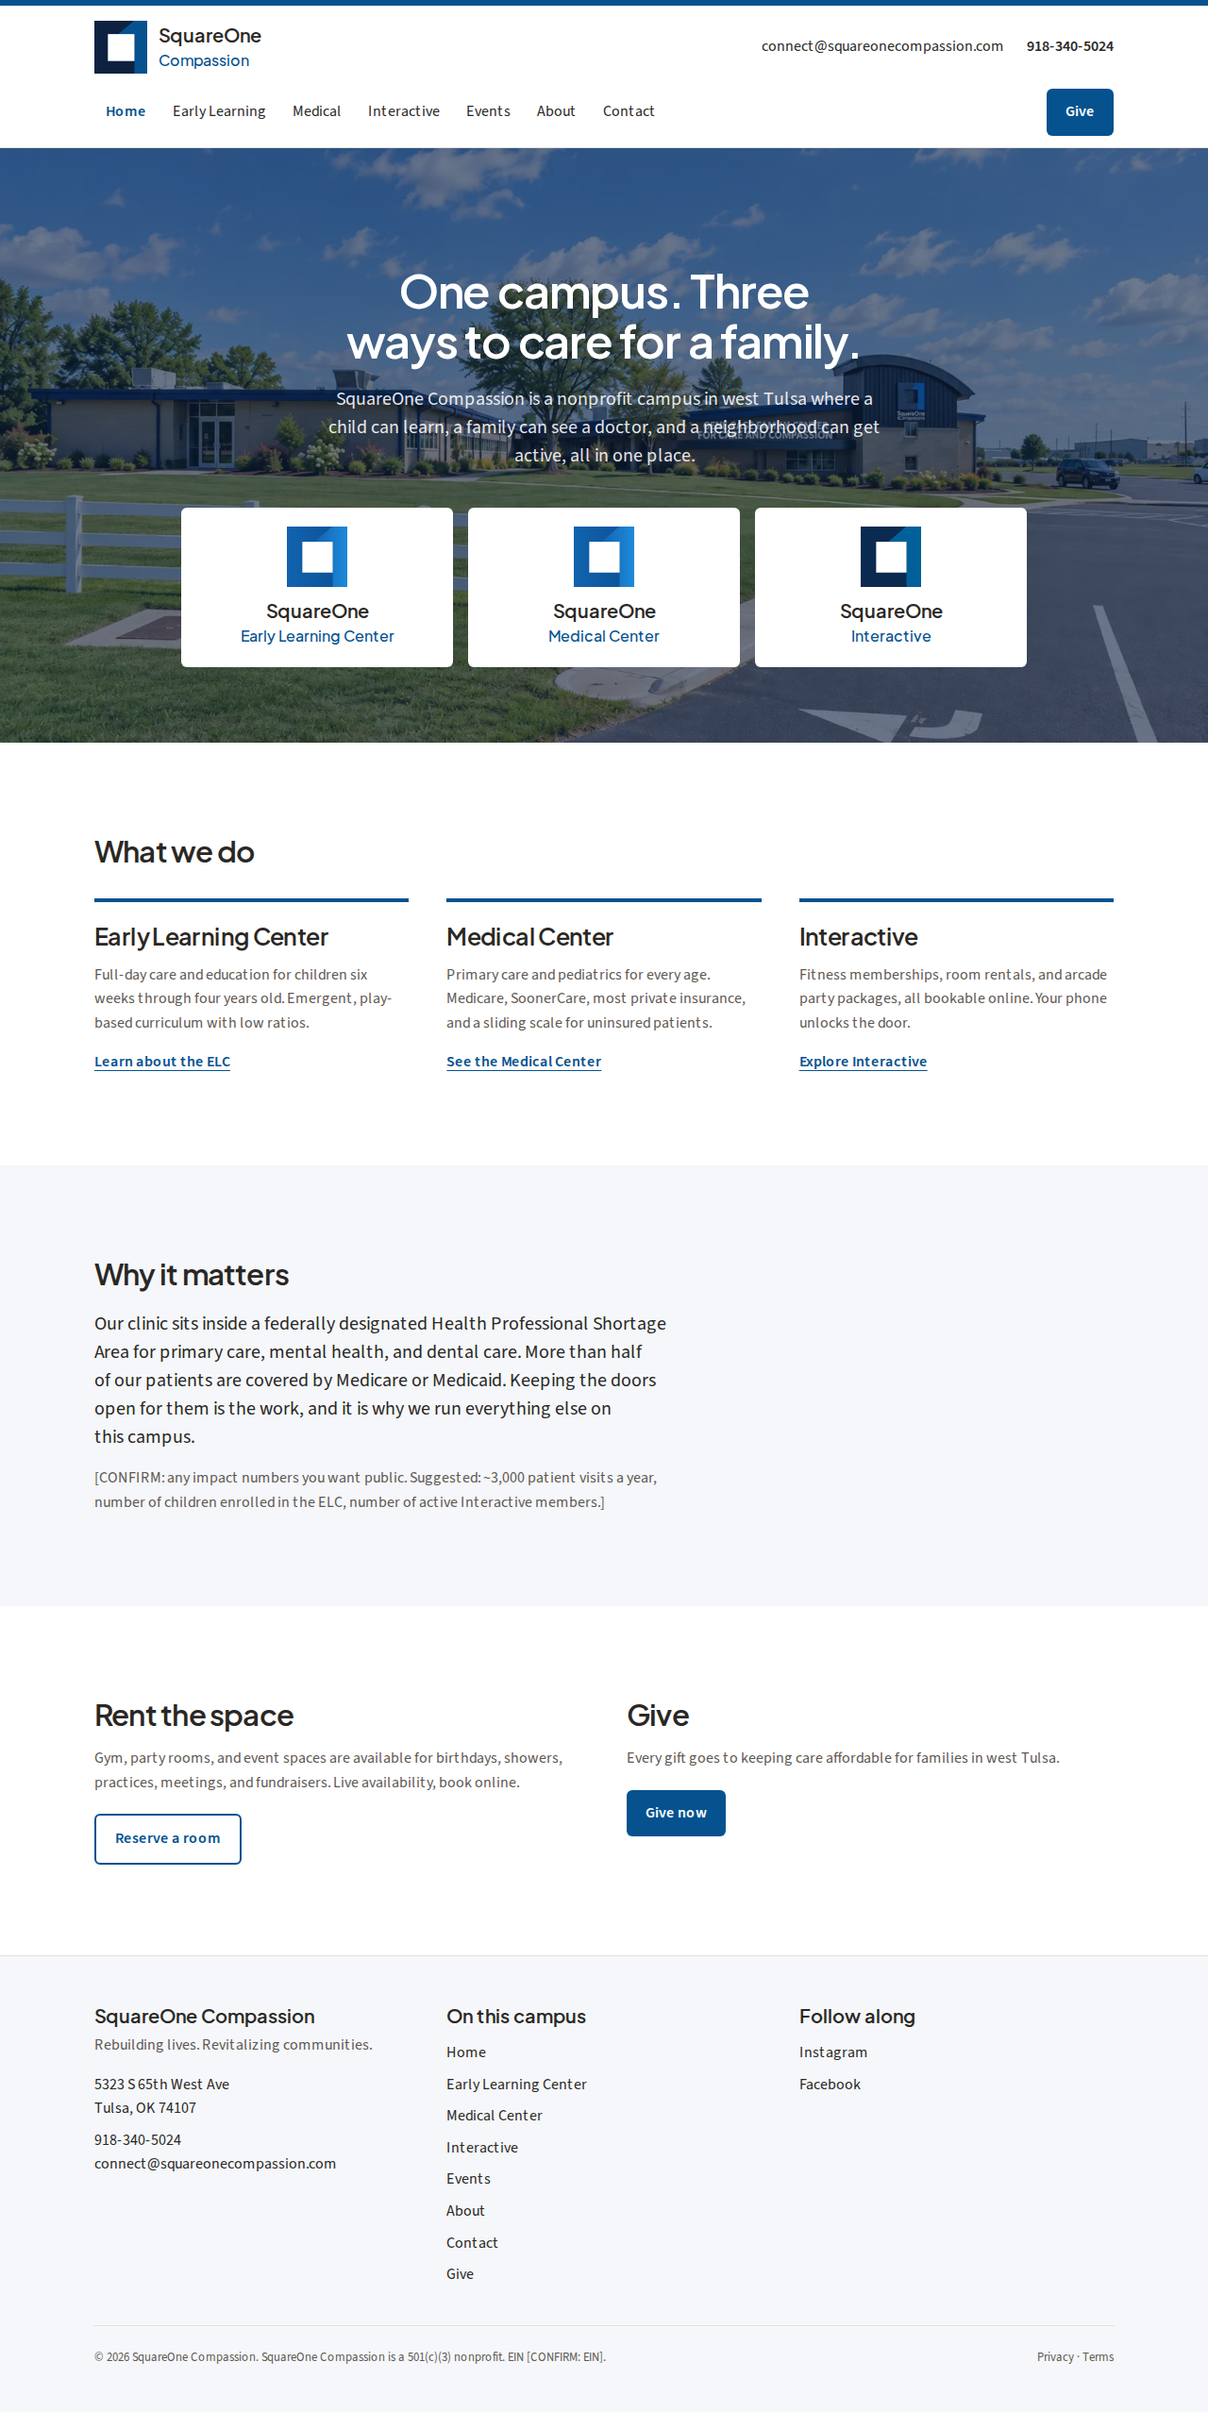
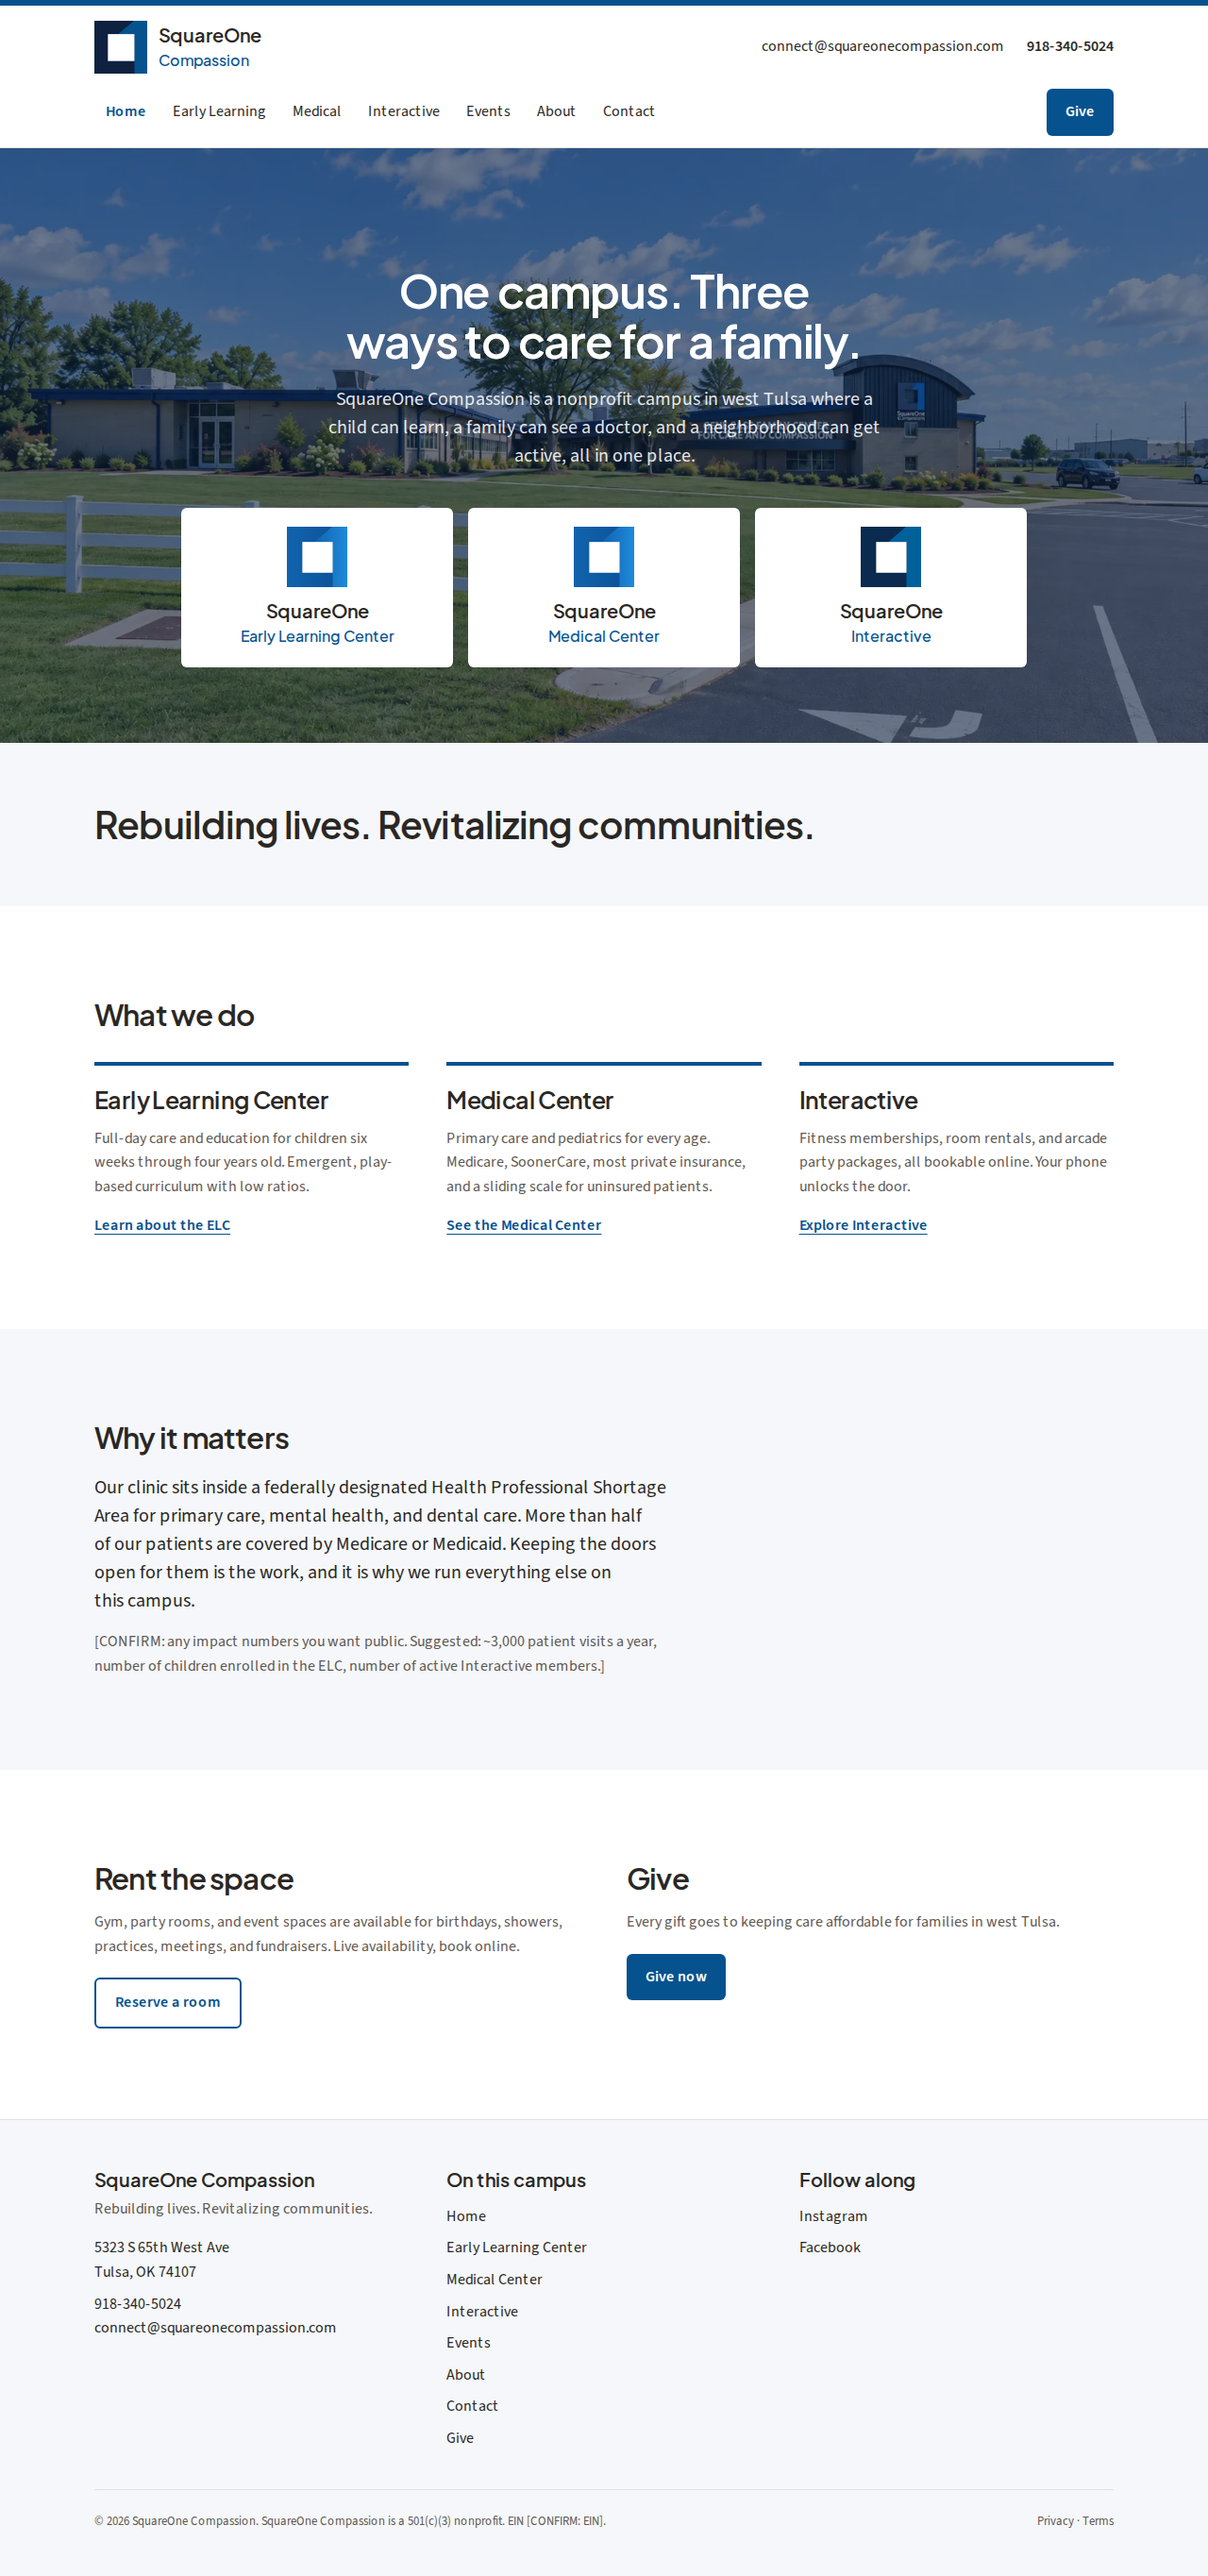
Add the mission statement band to the home page
"Rebuilding lives. Revitalizing communities." sits directly under the hero
in the display face, and COPY.md records it as the Home mission section.

Claude-Session: https://claude.ai/code/session_01Dy1NBE1CDjARVuM4emY1ru

diff --git a/app/page.tsx b/app/page.tsx
@@ -3,7 +3,7 @@ import { Hero } from '@/components/Hero'
 import { Section } from '@/components/Section'
 import { DivisionCard } from '@/components/DivisionCard'
 import { Confirm } from '@/components/Confirm'
-import { appUrl } from '@/lib/site'
+import { appUrl, ORG } from '@/lib/site'
 
 export default function HomePage() {
   return (
@@ -12,6 +12,12 @@ export default function HomePage() {
         headline="One campus. Three ways to care for a family."
         subhead="SquareOne Compassion is a nonprofit campus in west Tulsa where a child can learn, a family can see a doctor, and a neighborhood can get active, all in one place."
       />
+
+      <section className="bg-tint py-12 md:py-16" aria-label="Our mission">
+        <div className="container">
+          <p className="max-w-4xl font-display text-2xl font-semibold tracking-tight text-ink md:text-3xl">{ORG.tagline}</p>
+        </div>
+      </section>
 
       <Section>
         <h2 className="text-2xl">What we do</h2>

diff --git a/content/COPY.md b/content/COPY.md
@@ -29,6 +29,9 @@ Things deliberately removed from the old site because they are not current opera
 - Medical Center → /medical
 - Interactive → /interactive
 
+**Section: Mission (band directly under the hero)**
+Rebuilding lives. Revitalizing communities.
+
 **Section: What we do**
 
 *Early Learning Center*
